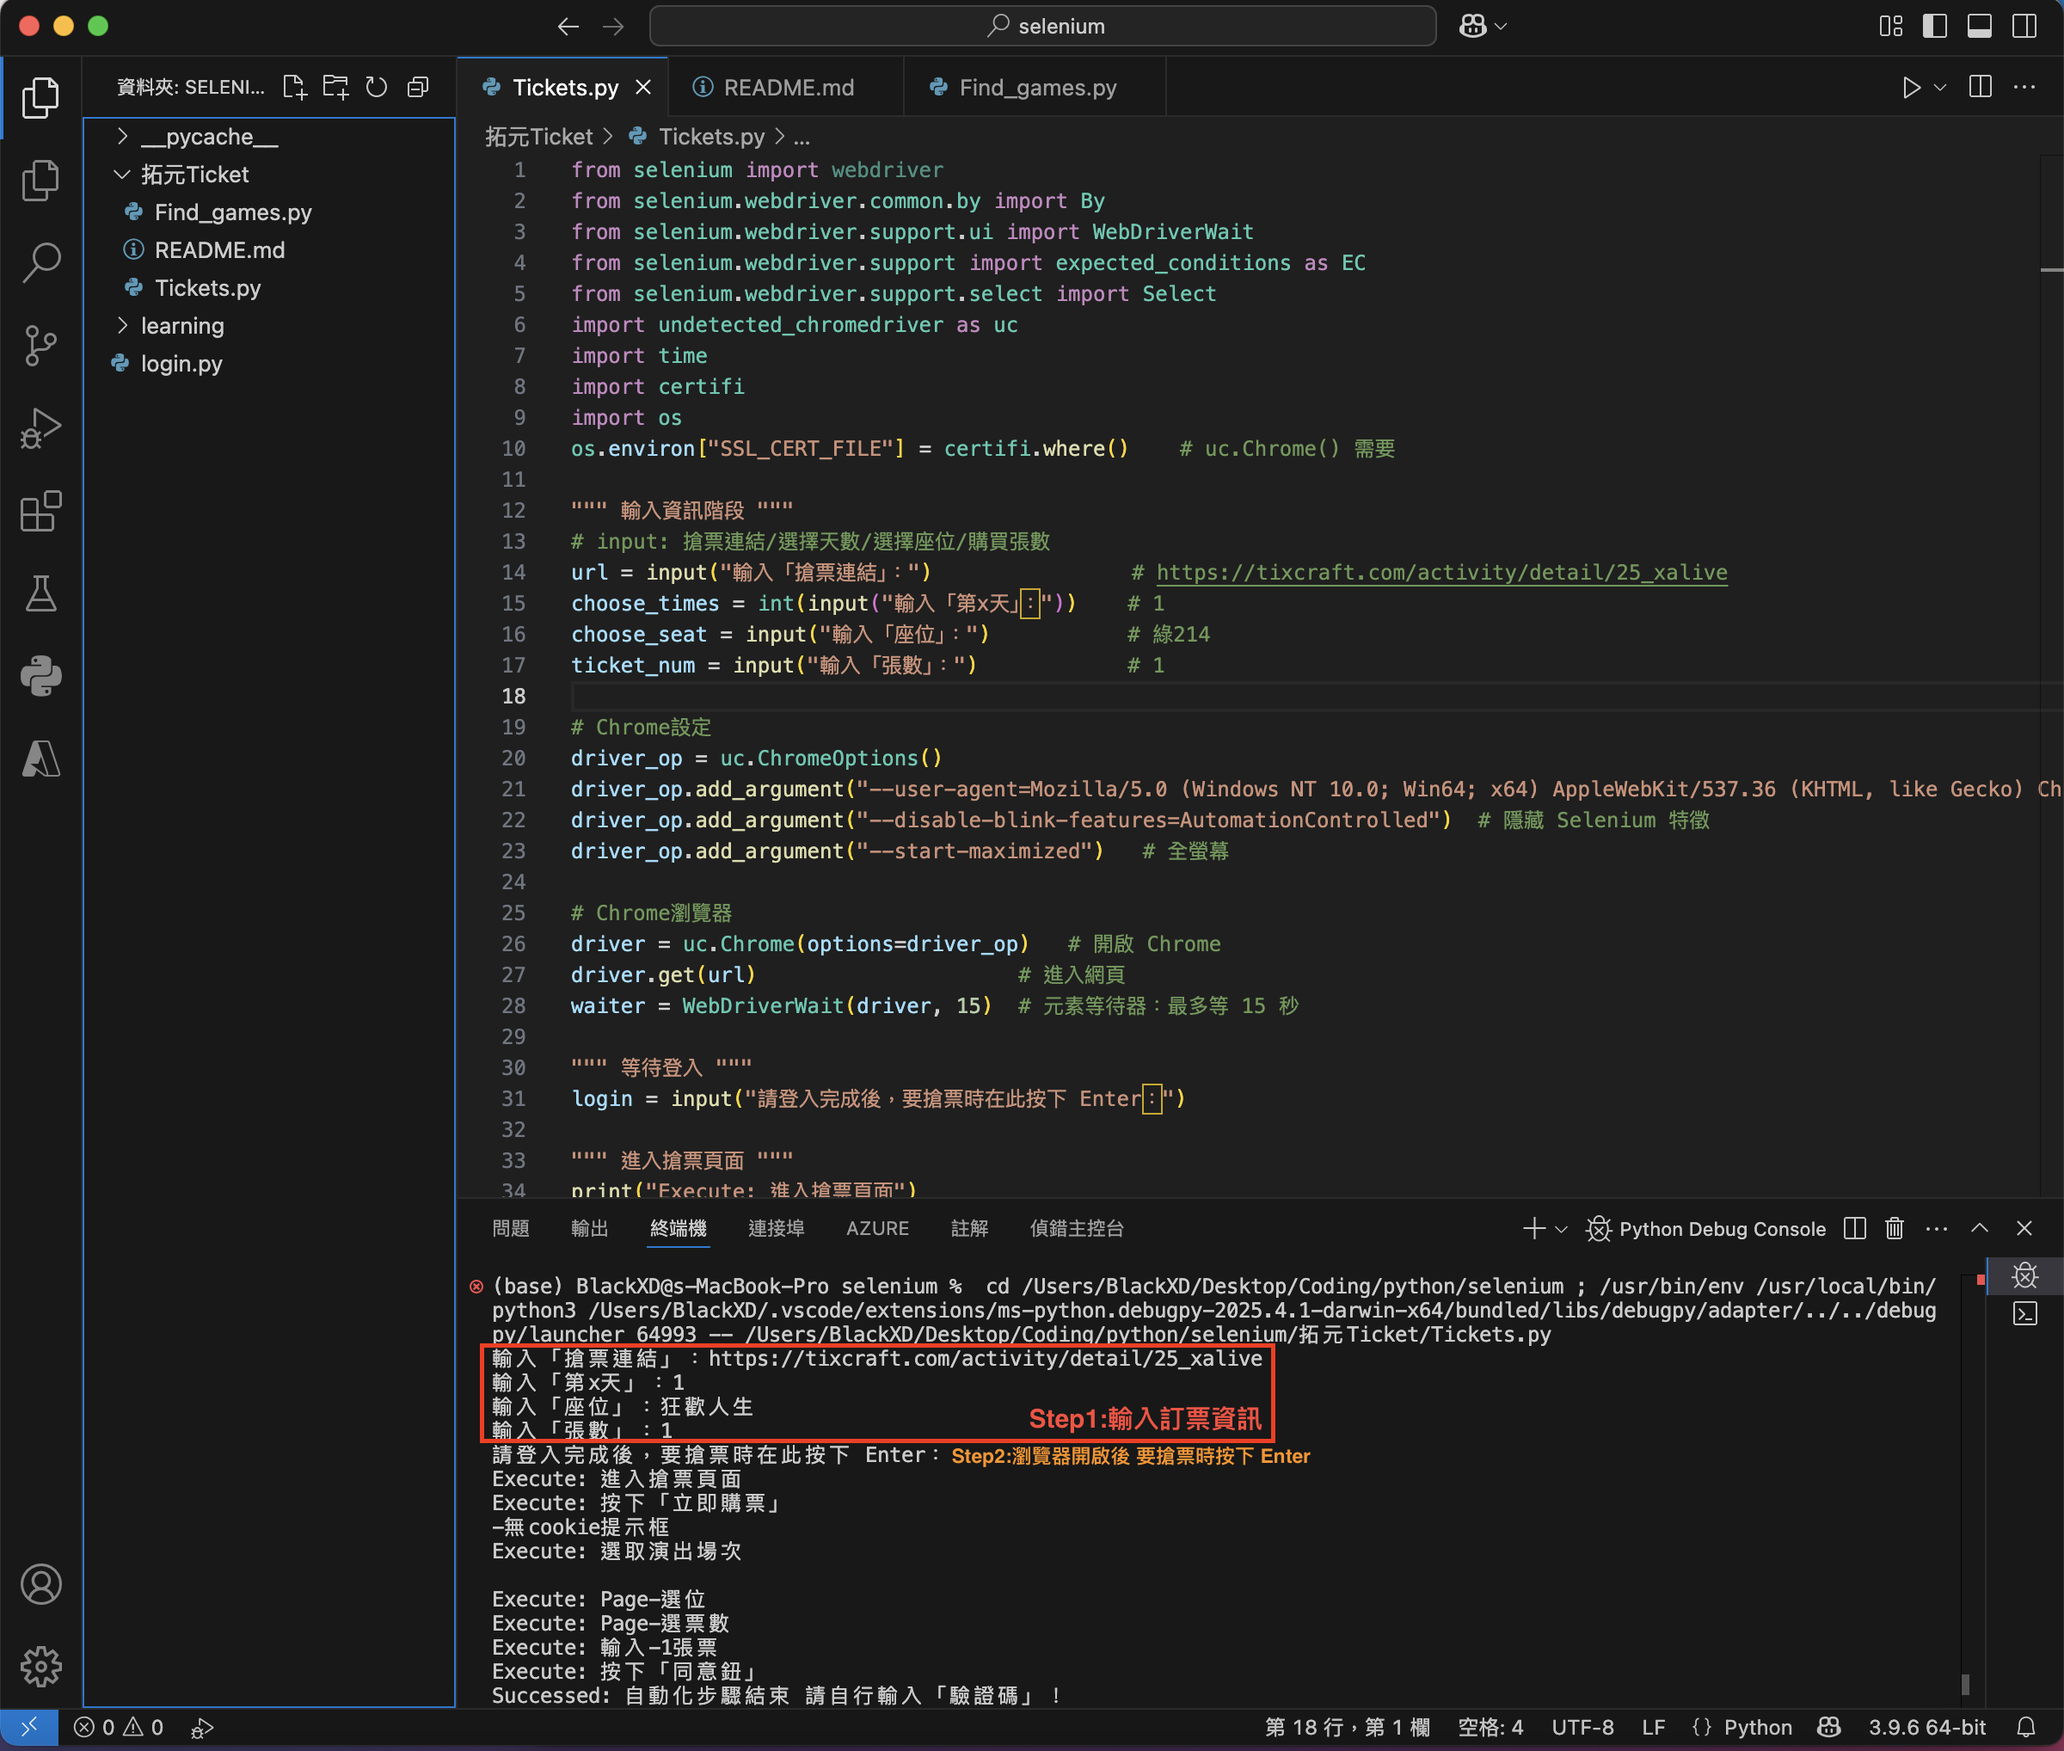
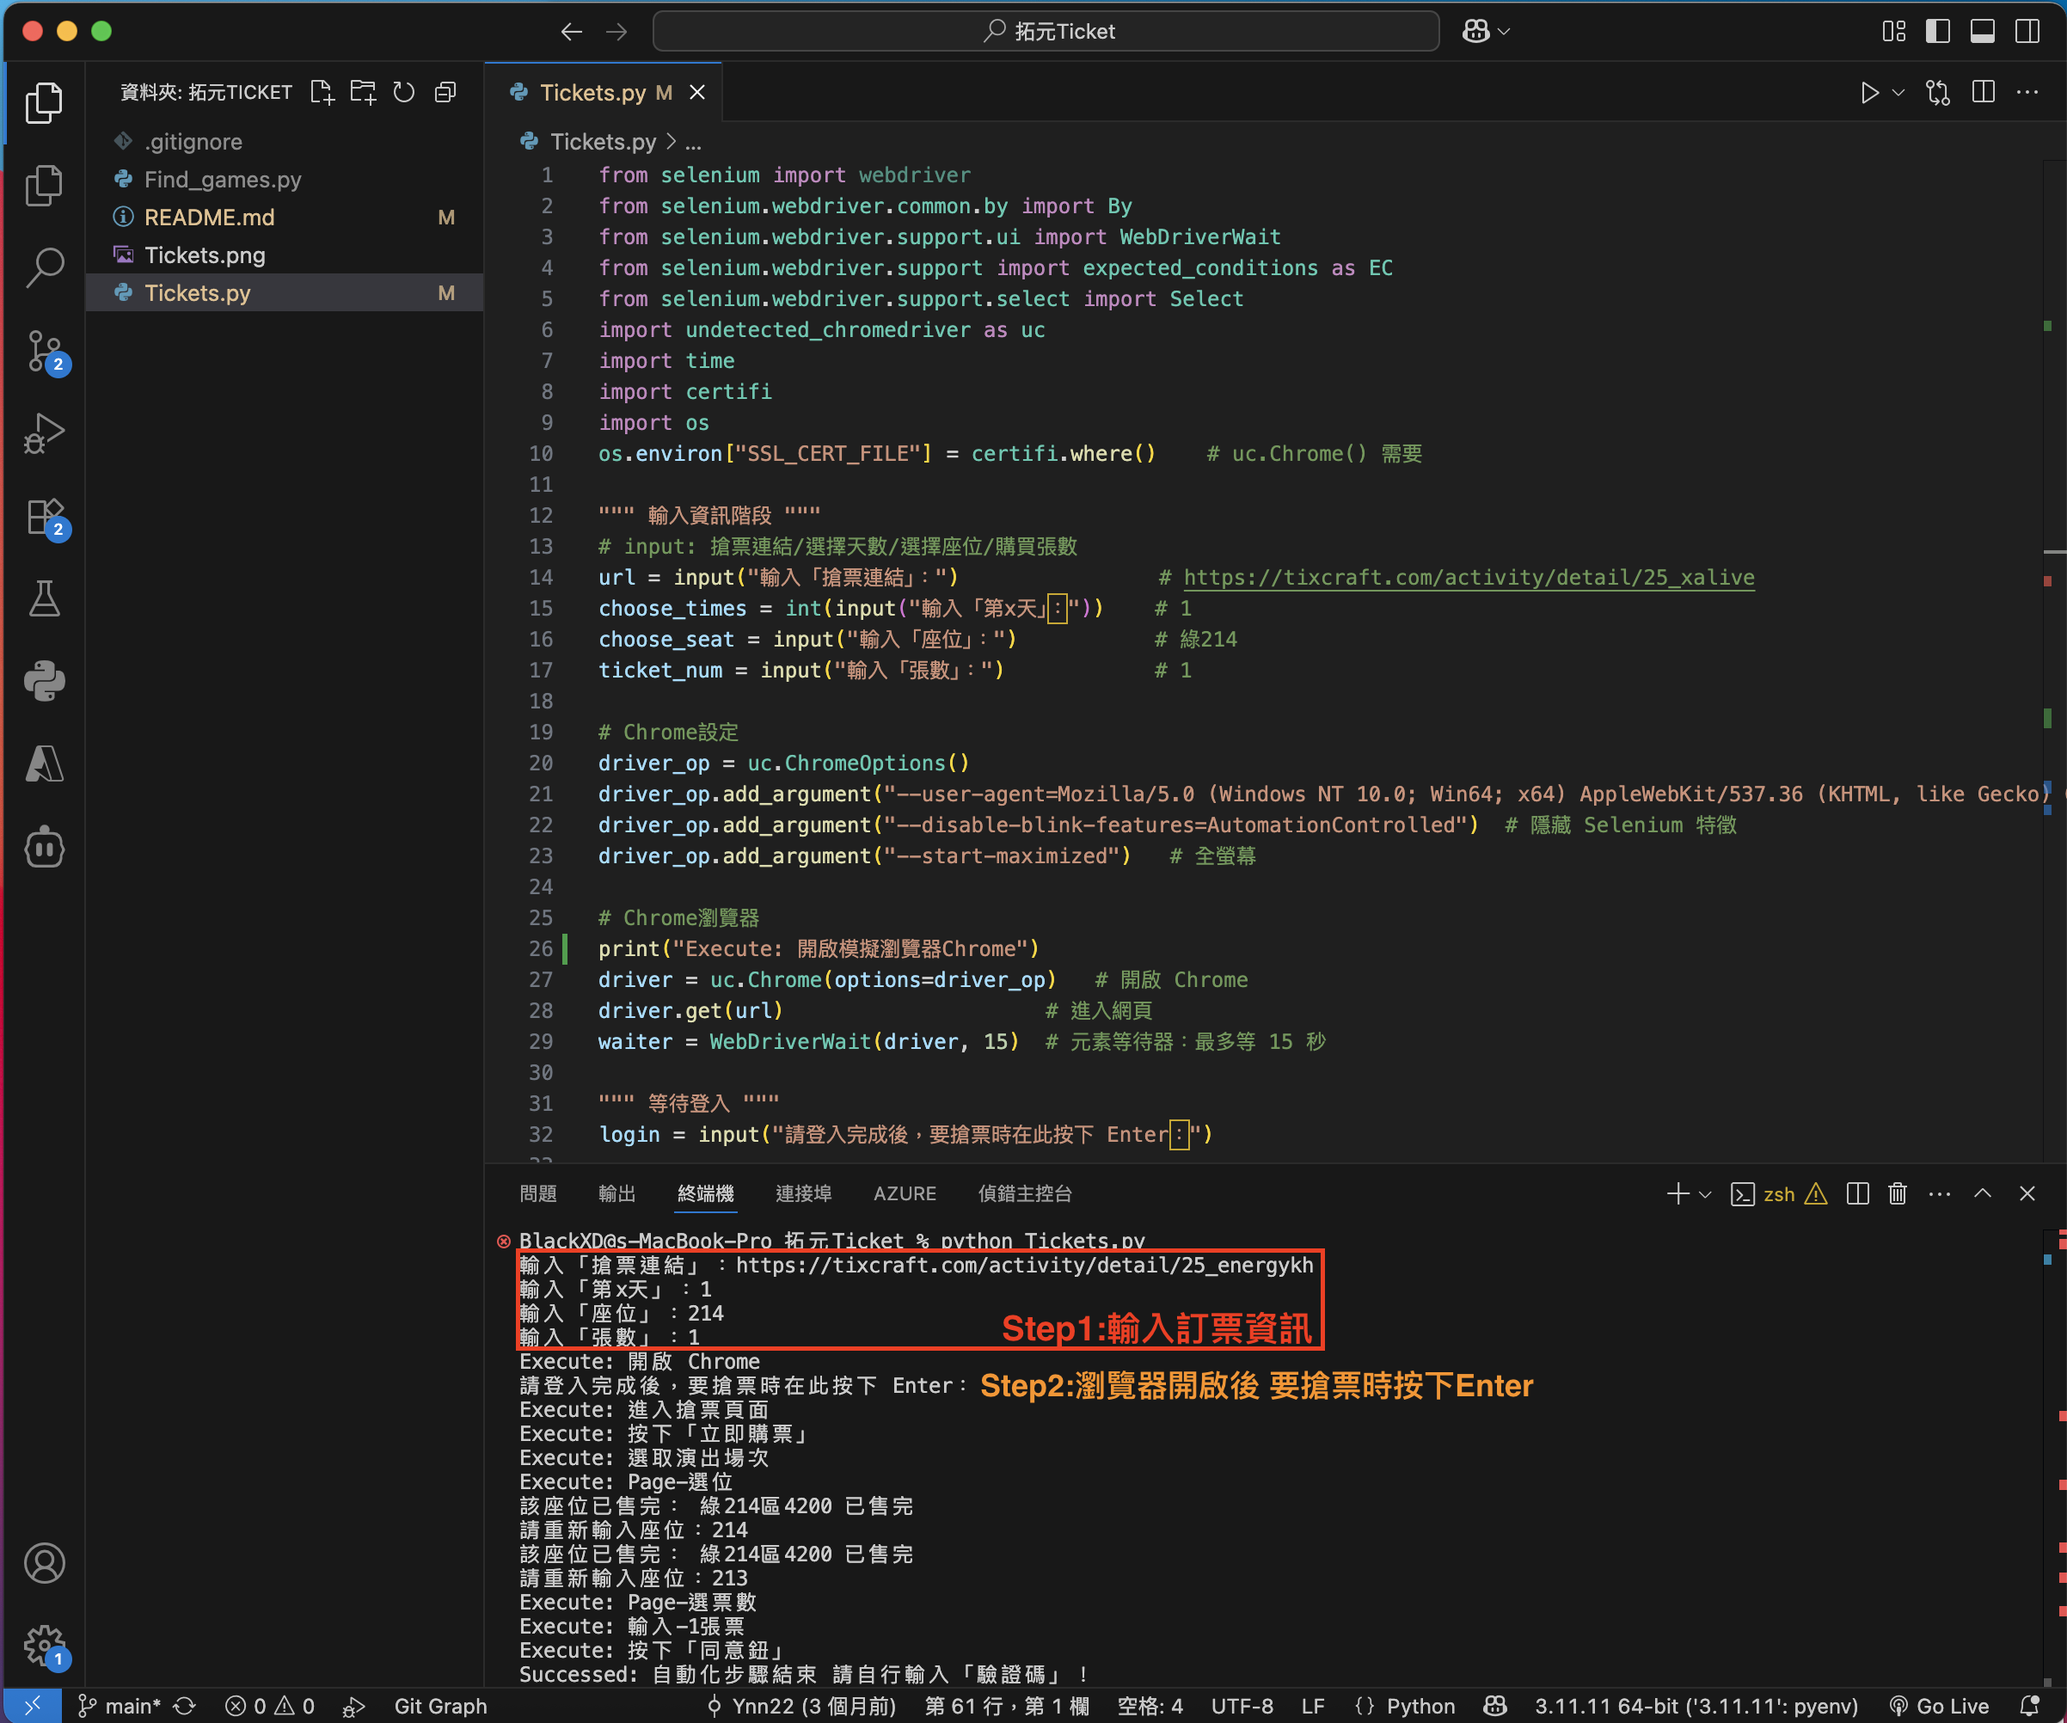
fix: 修復問題 1. 座位售完顯示2.gameList故障時，可自行操作

Changed region(s): [[0.0, 0.0, 1.0, 1.0], [0.9062, 0.0, 1.0, 0.0619], [0.5938, 0.2475, 0.6875, 0.2784]]

diff --git a/README.md b/README.md
@@ -6,17 +6,18 @@
 </div>
 
 ## 必備軟體
-* Python
+* Python 3 （建議使用 Python 3.9以上）
 
 ## 安裝流程
 
 * **Step1：** 按下「右上方<font color="green">Code</font>」→ 「Download ZIP」→ 並解壓縮
-* **Step2：** 打開「終端機」 → 並輸入以下
-`pip install --upgrade selenium`
-`pip install --upgrade undetected_chromedriver`
+* **Step2：** 打開「終端機」 → 並輸入以下2行
+    1. `pip install --upgrade selenium`
+    2. `pip install --upgrade undetected_chromedriver`
 * **Step3：** 打開解壓縮的「資料夾」 → 找到「Tickets.py」並打開
 * **Step4：** 即可開始使用「Tickets」！
 
+❗ 也可以使用 `git clone https://github.com/Ynn622/Tickets.git` 安裝
 ## 使用方法
 * **Step1：** 執行「Tickets.py」
 * **Step2：** 依序輸入「搶票連結 / 選擇天數 / 選擇座位 / 購買張數」
@@ -26,3 +27,6 @@
 * **Step6：** 等進入「驗證碼頁面」後，請自行完成後續訂票流程！
 
 ![Tickets.png](Tickets.png)
+
+## 問題反應
+如有任何問題，歡迎至 [Issue](https://github.com/Ynn622/Tickets/issues) 頁面回饋～
